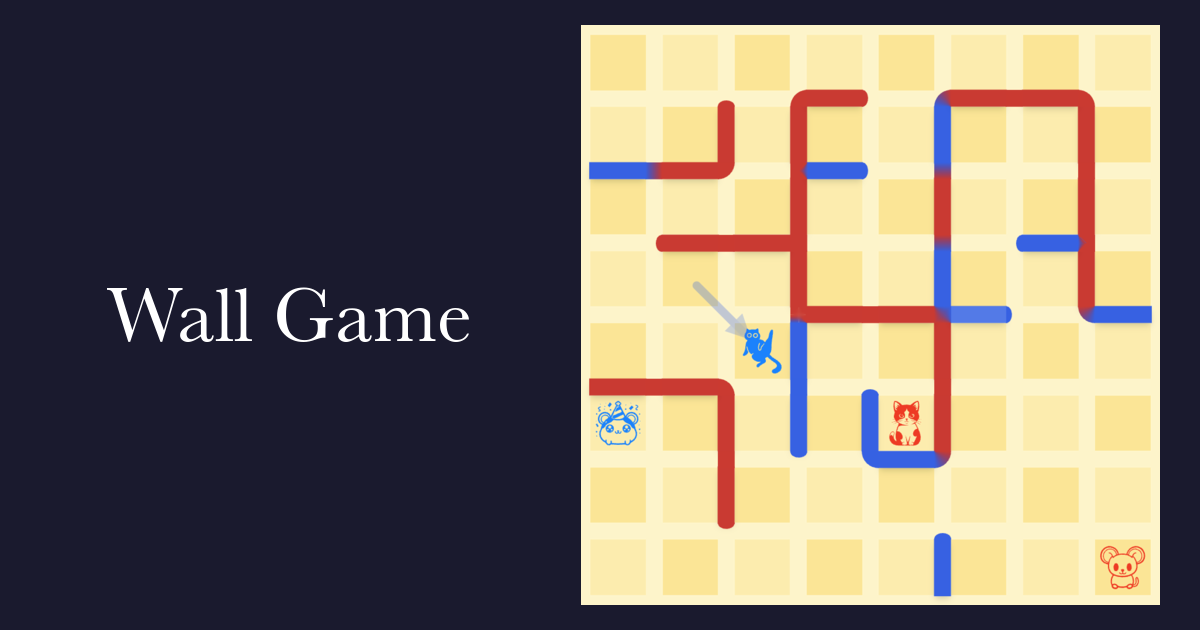
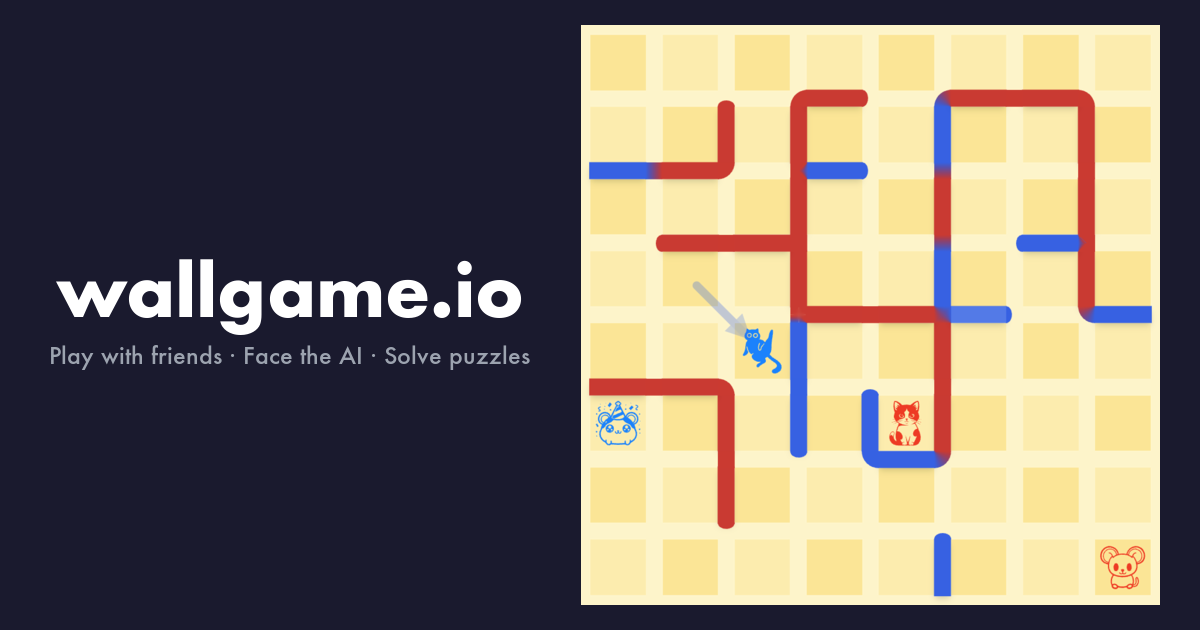
OG metadata improvements.

Changed region(s): [[0.0308, 0.3921, 0.4317, 0.6032]]

diff --git a/frontend/index.html b/frontend/index.html
@@ -10,24 +10,24 @@
   <link rel="manifest" href="/favicon/site.webmanifest" />
   <meta name="viewport" content="width=device-width, initial-scale=1.0" />
   <meta name="description"
-    content="Board game about building walls and outsmarting your opponents. Play online with friends, challenge the AI, or solve puzzles." />
+    content="Board game about building walls and outsmarting your opponents. Play with friends, face the AI, or solve puzzles." />
   <meta name="theme-color" content="#1a1a2e" />
 
   <!-- Open Graph / Facebook / WhatsApp / Discord -->
   <meta property="og:type" content="website" />
   <meta property="og:url" content="https://wallgame.io/" />
-  <meta property="og:title" content="Wall Game" />
+  <meta property="og:title" content="wallgame.io – Strategic Board Game" />
   <meta property="og:description"
-    content="Board game about building walls and outsmarting your opponents. Play online with friends, challenge the AI, or solve puzzles." />
+    content="Board game about building walls and outsmarting your opponents. Play with friends, face the AI, or solve puzzles." />
   <meta property="og:image" content="https://wallgame.io/og-image.png" />
   <meta property="og:site_name" content="Wall Game" />
 
   <!-- Twitter / X -->
   <meta name="twitter:card" content="summary_large_image" />
   <meta name="twitter:url" content="https://wallgame.io/" />
-  <meta name="twitter:title" content="Wall Game" />
+  <meta name="twitter:title" content="wallgame.io – Strategic Board Game" />
   <meta name="twitter:description"
-    content="Board game about building walls and outsmarting your opponents. Play online with friends, challenge the AI, or solve puzzles." />
+    content="Board game about building walls and outsmarting your opponents. Play with friends, face the AI, or solve puzzles." />
   <meta name="twitter:image" content="https://wallgame.io/og-image.png" />
 
   <title>Wall Game</title>
